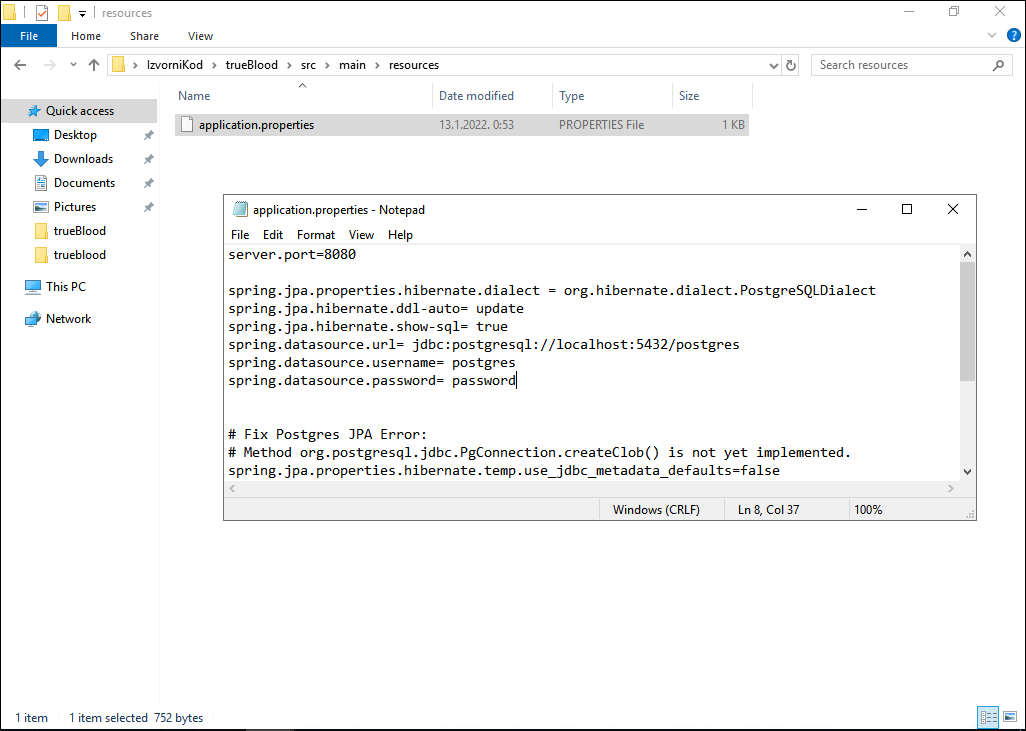
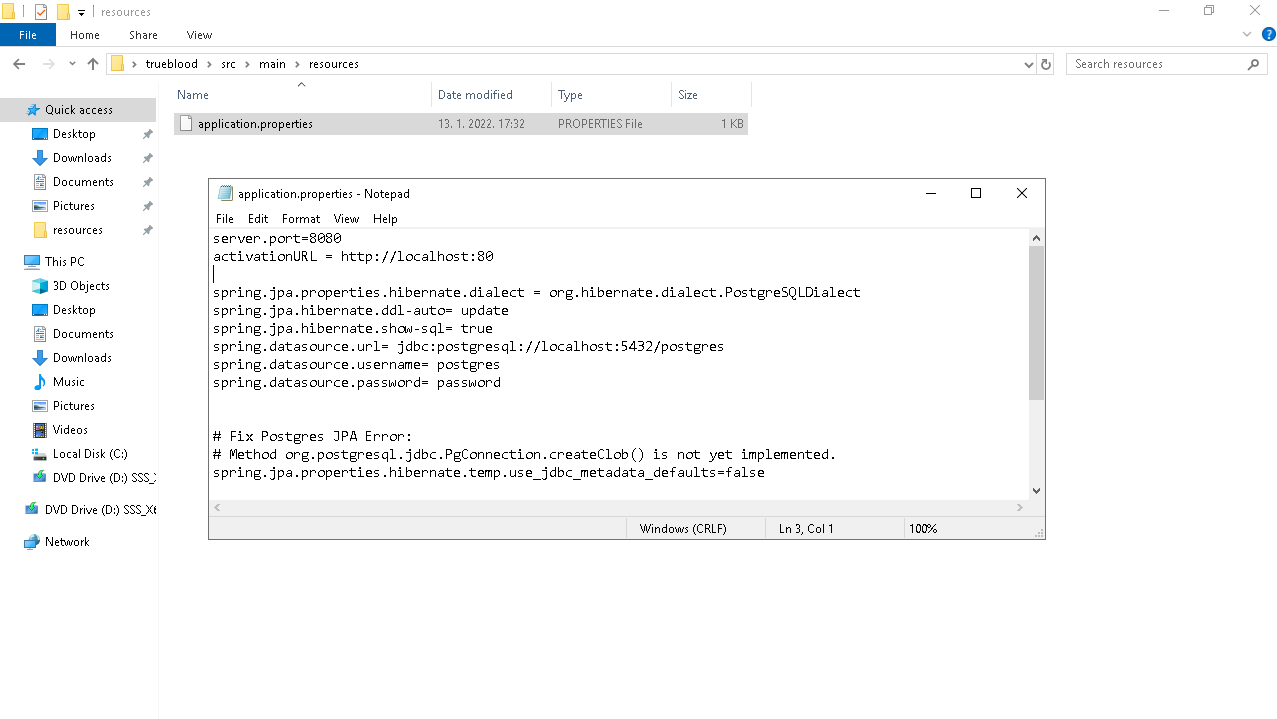
Dovršene upute za puštanje u pogon

diff --git a/Dokumentacija/Implementacija.tex b/Dokumentacija/Implementacija.tex
@@ -171,13 +171,13 @@ računalu nalaze web poslužitelj i poslužitelj baze podataka (PostgreSQL).
 		
 		\section{Upute za puštanje u pogon}
 		
-		Ove upute vrijede te su rađene za Windows Server 2019 desktop experience operativni sustav. Slična (ili gotovo ista) procedura je i za ostale windows, pa čak i linux operativne sustave. Većina razlika je u samoj instalaciji potrebnih programskih paketa i runtime-a te postavljanje putanje, nakon čega je njihovo korištenje gotovo identično.
+		Ove upute vrijede te su rađene za Windows Server 2019 desktop experience operativni sustav. Slična (ili gotovo ista) procedura je i za ostale windows, pa čak i linux operativne sustave. Većina razlika je u samoj instalaciji potrebnih programskih paketa i runtime-a te postavljanje putanje, nakon čega je konfiguriranje aplikacije i njezino korištenje gotovo identično.
 		
 			\textbf{Instalacija poslužitelja baze podataka}\\
 			Potrebno je preuzeti \href{https://www.enterprisedb.com/downloads/postgres-postgresql-downloads}{PostgreSQL bazu podataka za Windows x86-64}. Preporuča se verzija 13.x. Prilikom instalacije preporuča se ostaviti sve (po defaultu) označene komponente za instalaciju, jer će kasnije biti potrebno inicijalno popuniti bazu pomoću pgAdmin 4 alata. Odaberite šifru za korisnika postgres te port na kojem će baza podataka slušati zahtjeve. Prilikom završetka instalacije nije potrebno pokretati stack builder. Nakon instalacije (i prilikom svakog restarta servera), windows automatski pokreće servis baze podataka, te je ona dostupna na prethodno specificiranom portu.
 			
 			\textbf{Instalacija Node.js runtime-a}\\
-			Potrebno je preuzeti i instalirati \href{https://nodejs.org/en/download/}{Node.js runtime} koji će pokrenuti frontend dio aplikacije. Preporuča se trenutno dostupna LTS verzija (16.13.2 na dan pisanja). Prilikom instalacije potrebno je ostaviti sve (po defaultu) označene komponente za instalaciju, dok ponuđeni alat Chocolatey nije potrebno instalirati. Installer je automatski postavio PATH varijablu okruženja, te su "npm" i "node" naredbe postale globalno dostupne u cmd-u.
+			Potrebno je preuzeti i instalirati \href{https://nodejs.org/en/download/}{Node.js runtime} koji će pokrenuti frontend dio aplikacije. Preporuča se trenutno dostupna LTS verzija (16.13.2 na dan pisanja). Prilikom instalacije potrebno je ostaviti sve (po defaultu) označene komponente za instalaciju, dok ponuđeni alat Chocolatey nije potrebno instalirati. Installer je automatski postavio PATH varijablu okruženja, te su "\textit{npm}" i "\textit{node}" naredbe postale globalno dostupne u cmd-u.
 			
 			\textbf{Instalacija Jave}\\
 			Potrebno je preuzeti i instalirati \href{https://www.oracle.com/java/technologies/downloads/#jdk17-windows}{JDK paket} koji će pokretati backend dio aplikacije.
@@ -189,7 +189,7 @@ računalu nalaze web poslužitelj i poslužitelj baze podataka (PostgreSQL).
 			\label{fig:JDKdownload}
 			\end{figure}
 
-			Potrebna je trenutna 17.x.x verzija, no moguće je koristiti i neku od novijih verzija. Installer je automatski postavio PATH varijablu okruženja, te je "java" naredba postala globalno dostupna u cmd-u.
+			Potrebna je trenutna 17.x.x verzija, no moguće je koristiti i neku od novijih verzija. Installer je automatski postavio PATH varijablu okruženja, te je "\textit{java}" naredba postala globalno dostupna u cmd-u.
 			
 			\textbf{Instalacija Maven alata i postavljanje PATH varijable okruženja}\\
 			Potrebno je preuzeti \href{https://maven.apache.org/download.cgi}{Maven alat} koji služi za kreiranje .jar datoteke iz izvornog koda koja sadrži cijelu backend aplikaciju sa web serverom. Preporuča se 3.8.4 verzija ili novija.
@@ -201,7 +201,8 @@ računalu nalaze web poslužitelj i poslužitelj baze podataka (PostgreSQL).
 			\label{fig:mavenDownload}
 			\end{figure}
 			
-			Nakon preuzimanja potrebno je raspakirati folder u proizvoljnu mapu (u ovom primjeru na "\textit{C:/Program Files/apache-maven-3.8.4-bin}") te dodati "bin" folder u PATH varijablu okruženja. Pritiskom "\textit{Windows}" + "\textit{R}" tipki otvara se prozor u kojem treba napisati "\textit{SystemPropertiesAdvanced}" i pritisnuti enter.
+			Nakon preuzimanja potrebno je raspakirati folder u proizvoljnu mapu (u ovom primjeru na "\textit{C:/Program Files/apache-maven-3.8.4-bin}") te dodati "\textit{bin}" folder u PATH varijablu okruženja što se napravi na sljedeći način: 
+			Pritiskom "\textit{Windows}" + "\textit{R}" tipki otvara se prozor u kojem treba napisati "\textit{SystemPropertiesAdvanced}" i pritisnuti enter.
 			
 			\begin{figure}[H]
 			\centering
@@ -210,7 +211,7 @@ računalu nalaze web poslužitelj i poslužitelj baze podataka (PostgreSQL).
 			\label{fig:RunWindow}
 			\end{figure}
 			
-			Nakon toga otvara se drugi prozor gdje treba stisnuti gumb "Environment Variables...".
+			Nakon toga otvara se drugi prozor gdje treba stisnuti gumb "\textit{Environment Variables...}".
 			
 			\begin{figure}[H]
 			\centering
@@ -228,7 +229,7 @@ računalu nalaze web poslužitelj i poslužitelj baze podataka (PostgreSQL).
 			\label{fig:EnvironmentVariables}
 			\end{figure}
 			
-			Nakon toga, u novootvorenom prozoru, pritiskom na tipku "\textit{New}" potrebno je napisati putanju do bin foldera prethodno raspakiranog maven alata. U ovom slučaju to je "\textit{C:/Program Files/apache-maven-3.8.4-bin/apache-maven-3.8.4/bin}"
+			Nakon toga, u novootvorenom prozoru, pritiskom na tipku "\textit{New}" potrebno je napisati putanju do "\textit{bin}" foldera prethodno raspakiranog maven alata. U ovom slučaju to je "\textit{C:/Program Files/apache-maven-3.8.4-bin/apache-maven-3.8.4/bin}"
 			
 			\begin{figure}[H]
 			\centering
@@ -238,13 +239,7 @@ računalu nalaze web poslužitelj i poslužitelj baze podataka (PostgreSQL).
 			\end{figure}
 			
 			\textbf{Podešavanje i pokretanje backend dio aplikacije te inicijalno punjenje baze}\\
-			Kako bi aplikacija ispravno radila, potrebno je postaviti parametre za povezivanje s bazom podataka. U datoteci "\textit{application.properties}" (koja se nalazi na putanji "\textit{IzvorniKod/trueblood/src/main/resources}") nalaze se 3 ključne linije za povezivanje s bazom:
-			"\textit{spring.datasource.url= jdbc:postgresql://localhost:5432/postgres}"
-			"\textit{spring.datasource.username= postgres}"
-			"\textit{spring.datasource.password= password}"
-			Na prvoj liniji je potrebno specificirati odabrani port prilikom instalacije ("...//localhost:<port_number>/..."), te ime baze ("...5432/<ime_baze>"), ukoliko se ne koristi default baza (PostgreSQL ima svoju default bazu "postgres" koja je kreirana prilikom instalacije)
-			Na drugoj liniji specificira se ime korisnika kojeg aplikacija koristi za pristup bazi, te na trećoj liniji lozinka tog korisnika. Ukoliko se koristi default "postgres" korisnik za koji je definirana lozinka prilikom instalacije, ovdje se upiše ta ista lozinka.
-			Na samom vrhu nalazi se konfiguarijcka linija "\textit{server.port=8080}" kojom se može promijeniti port backend servera (default je 8080).
+			Kako bi aplikacija ispravno radila, potrebno je postaviti parametre za povezivanje s bazom podataka te ispravnu IP adresu i port za aktivacijski link u datoteci "\textit{application.properties}" (koja se nalazi na putanji "\textit{IzvorniKod/trueblood/src/main/resources}").
 			
 			\begin{figure}[H]
 			\centering
@@ -252,6 +247,23 @@ računalu nalaze web poslužitelj i poslužitelj baze podataka (PostgreSQL).
 			\caption{application.properties datoteka}
 			\label{fig:ApplicationProperties}
 			\end{figure}
+			
+			Na samom vrhu nalazi se konfiguarijcka linija "\textit{server.port=8080}" kojom se može promijeniti port backend servera (default je 8080).
+			Ispod toga, nalazi se linija "\textit{activationURL = http://localhost:80}". Ovdje je potrebno specificirati javnu IP adresu servera (ili DNS name tj. link ukoliko se koristi), te port frontend dijela aplikacije (ukoliko nije default 80). Jedan od načina kako se to može napraviti jest tako da se na serveru otvori stranica "\textit{https://www.whatismyip.com/} te se kopira ispisana IP adresa na mjesto ("activationURL = http://<ip_adresa>:80")
+			
+			\begin{figure}[H]
+			\centering
+			\includegraphics[width=\textwidth, scale=0.5]{slike/WhatIsMyIp}
+			\caption{Kopiranje javne IPv4 adrese servera}
+			\label{fig:WhatIsMyIp}
+			\end{figure}
+
+			Nadalje, ispod se nalaze 3 ključne linije za povezivanje s bazom:
+			"\textit{spring.datasource.url= jdbc:postgresql://localhost:5432/postgres}"
+			"\textit{spring.datasource.username= postgres}"
+			"\textit{spring.datasource.password= password}"
+			Na prvoj liniji je potrebno specificirati odabrani port prilikom instalacije ("...//localhost:<port_number>/..."), te ime baze ("...5432/<ime_baze>") ukoliko se ne koristi default baza (PostgreSQL ima svoju default bazu "postgres" koja je kreirana prilikom instalacije)
+			Na drugoj liniji specificira se ime korisnika kojeg aplikacija koristi za pristup bazi, te na trećoj liniji lozinka tog korisnika. Ukoliko se koristi default "postgres" korisnik za koji je definirana lozinka prilikom instalacije, ovdje se upiše ta ista lozinka.
 			
 			Nakon modificiranja i spremanja konfiguracijske datoteke, potrebno je otvoriti cmd, pozicionirati se u trueBlood folder (putanja "\textit{IzvorniKod/trueBlood}") te izvršiti komandu "\textit{mvn clean install -DskipTests}" kojom će maven alat preuzeti potrebne "dependency-e" te izraditi .jar datoteku spremnu za pokretanje.
 			
@@ -270,9 +282,9 @@ računalu nalaze web poslužitelj i poslužitelj baze podataka (PostgreSQL).
 				\end{minipage}
 			\end{figure}
 
-			Izrađena .jar datoteka nalazi se na putanji "\textit{IzvorniKod/trueBlood/target}" pod imenom "\textit{trueBlood-0.0.1-SNAPSHOT}", te se sa cmd-om potrebno pozicionirati u navedeni folder i izvršiti komandu "\textit{java -jar trueBlood-0.0.1-SNAPSHOT.jar}" čime se pokreće backend dio aplikacije. Potrebno je ostaviti otvoren cmd prozor kako bi aplikacija radila.\\
+			Izrađena .jar datoteka (koja u sebi sadrži sve što je potrebno za njezino pokretanje, uključujući i tomcat web server) nalazi se na putanji "\textit{IzvorniKod/trueBlood/target}" pod imenom "\textit{trueBlood-0.0.1-SNAPSHOT}", te se sa cmd-om potrebno pozicionirati u navedeni folder i izvršiti komandu "\textit{java -jar trueBlood-0.0.1-SNAPSHOT.jar}" čime se pokreće backend dio aplikacije. Potrebno je ostaviti otvoren cmd prozor kako bi aplikacija radila.\\
 			
-			Aplikacija sama stvara tablice i strukturu podataka u schemu "public" unutar baze specificirane u application.properties. No za ispravan rad potrebno je još dodavanje statičkih redova na način da se otvori prije instalirana aplikacija "PgAdmin", (na upit za lozinku upiše se odabrana lozinka prilikom instalacije) desnim klikom na korištenu bazu odabere se "\textit{Query Tool}", u tekstni prozor se kopira sadržaj datoteke "\textit{puniteljBaze.sql}" (koja se nalazi na putanji "\textit{IzvorniKod/trueblood/puniteljBaze.sql}") bilo samim kopiranjem teksta ili drag and drop metodom, te se pritisne tipka "\textit{Execute}". Ovim početnim punjenjem baze podataka, definira se početni admin korisnički račun (username: "admin", password: "admin") pomoću kojeg se dalje mogu kreirati druge vrste korisničkih računa.
+			Aplikacija sama stvara tablice i strukturu podataka u schemu "public" unutar baze specificirane u application.properties. No za ispravan rad potrebno je još dodavanje statičkih redova na način da se otvori prije instalirana aplikacija "PgAdmin", (na upit za lozinku upiše se odabrana lozinka prilikom instalacije) desnim klikom na korištenu bazu odabere se "\textit{Query Tool}", u tekstni prozor se kopira sadržaj datoteke "\textit{puniteljBaze.sql}" (koja se nalazi na putanji "\textit{IzvorniKod/trueblood/puniteljBaze.sql}") bilo samim kopiranjem teksta ili drag and drop metodom, te se pritisne tipka "\textit{Execute}". Ovim početnim punjenjem baze podataka, definira se početni admin korisnički račun (username: "\textit{admin}", password: "\textit{admin}") pomoću kojeg je moguće daljnje upravljanje aplikacijom.
 			
 			\begin{figure}[H]
 			\centering
@@ -282,32 +294,21 @@ računalu nalaze web poslužitelj i poslužitelj baze podataka (PostgreSQL).
 			\end{figure}
 			
 			\textbf{Podešavanje i pokretanje frontend dijela aplikacije}\\
-			Nakon uspješno pokrenutog backend dijela aplikacije, potrebno je još posložiti i pokrenuti i frontend dio aplikacije. Prvo je potrebno saznati javnu IP adresu servera. jedan od načina kako se to može napraviti jest tako da se na serveru otvori stranica "\textit{https://www.whatismyip.com/} te se kopira ispisana IP adresa. Nakon toga, tu IP adresu i port backend dijela aplijacije definiranog prije u application.properties potrebno je upisati u datoteku "\textit{Constants.js}" (koja se nalazi na putanji "\textit{IzvorniKod/trueBlood/frontend/src/components/Constants.js}") na liniji "\textit{export const SPRING_URL = 'http://localhost:8080';}" ("...= <IP_adresa>:<port_number>';").
+			Nakon uspješno pokrenutog backend dijela aplikacije, potrebno je još posložiti i pokrenuti i frontend dio aplikacije. Potrebno je javnu IP adresu servera (dobivenu prije danim uputama) i port backend dijela aplijacije (definiranog prije u application.properties) upisati u datoteku "\textit{Constants.js}" (koja se nalazi na putanji "\textit{IzvorniKod/trueBlood/frontend/src/components}") na liniji "\textit{export const SPRING_URL = 'http://localhost:8080';}" ("...= <IP_adresa>:<port_number>';").
 
-			\begin{figure}[!tbp]
-				\centering
-				\begin{minipage}[b]{0.4\textwidth}
-					\includegraphics[width=\textwidth]{slike/WhatIsMyIp}
-					\caption{Kopiranje javne IPv4 adrese servera}
-					\label{fig:WhatIsMyIp}
-				\end{minipage}
-				\hfill
-				\begin{minipage}[b]{0.4\textwidth}
-					\includegraphics[width=\textwidth]{slike/ConstantsJs}
-					\caption{Constants.js datoteka}
-					\label{fig:ConstantsJs}
-				\end{minipage}
+			\begin{figure}[H]
+			\centering
+			\includegraphics[width=\textwidth, scale=0.5]{slike/ConstantsJs}
+			\caption{Constants.js datoteka}
+			\label{fig:ConstantsJs}
 			\end{figure}
 			
-			Nakon modificiranja i spremanja datoteke Constants.js, potrebno je otvoriti novi cmd prozor, pozicionirati se u frontend folder (putanja "\textit{IzvorniKod/trueBlood/frontend}") te izvršiti komandu "\textit{npm install}" kojom se instaliraju potrebni node moduli, zatim komandu "\textit{npm run build}" kojom se kreira "build" folder u kojem se nalaze izvršne datoteke spremne za korištenje u produkciji. Te datoteke mogu se upogoniti u bilo kojem proizvoljnom web serveru (poput microsoftovog IIS-a), no radi jednostavnosti, nakon izvršenja prethodne naredbe, naredbom "\textit{npm install -g serve}" dodatno se instalira "serve" modul, koji koristi za posluživanje prije kreiranih datoteka. Napokon, naredbom "\textit{serve -s build -l 80}" pokrećemo Node.js web server na portu 80, te je ovime kompletna aplikacija spremna za upotrebu.
-			Napomena: 
+			Nakon modificiranja i spremanja datoteke Constants.js, potrebno je otvoriti novi cmd prozor, pozicionirati se u frontend folder (putanja "\textit{IzvorniKod/trueBlood/frontend}") te izvršiti komandu "\textit{npm install}" kojom se instaliraju potrebni node moduli, zatim komandu "\textit{npm run build}" kojom se kreira "build" folder u kojem se nalaze izvršne datoteke spremne za korištenje u produkciji. Te datoteke mogu se upogoniti u bilo kojem proizvoljnom web serveru (poput microsoftovog IIS-a), no radi jednostavnosti, nakon izvršenja prethodne naredbe, naredbom "\textit{npm install -g serve}" dodatno se instalira "\textit{serve}" modul, koji koristi za posluživanje prije kreiranih datoteka. Napokon, naredbom "\textit{serve -s build -l 80}" pokreće se Node.js web server na portu 80 (ukoliko je ranije odabran neki drugi port frontend aplikacije, sa opcijom "\textit{...-l <port_number>}" se aplikacija pokreće na odabranom portu), te je ovime kompletna aplikacija spremna za upotrebu.
 			
-			\textit{U ovom poglavlju potrebno je dati upute za puštanje u pogon (engl. deployment) ostvarene aplikacije. Na primjer, za web aplikacije, opisati postupak kojim se od izvornog kôda dolazi do potpuno postavljene baze podataka i poslužitelja koji odgovara na upite korisnika. Za mobilnu aplikaciju, postupak kojim se aplikacija izgradi, te postavi na neku od trgovina. Za stolnu (engl. desktop) aplikaciju, postupak kojim se aplikacija instalira na računalo. Ukoliko mobilne i stolne aplikacije komuniciraju s poslužiteljem i/ili bazom podataka, opisati i postupak njihovog postavljanja. Pri izradi uputa preporučuje se \textbf{naglasiti korake instalacije uporabom natuknica} te koristiti što je više moguće \textbf{slike ekrana} (engl. screenshots) kako bi upute bile jasne i jednostavne za slijediti.}
-		
-			 \textit{U ovom poglavlju potrebno je dati upute za puštanje u pogon (engl. deployment) ostvarene aplikacije. Na primjer, za web aplikacije, opisati postupak kojim se od izvornog kôda dolazi do potpuno postavljene baze podataka i poslužitelja koji odgovara na upite korisnika. Za mobilnu aplikaciju, postupak kojim se aplikacija izgradi, te postavi na neku od trgovina. Za stolnu (engl. desktop) aplikaciju, postupak kojim se aplikacija instalira na računalo. Ukoliko mobilne i stolne aplikacije komuniciraju s poslužiteljem i/ili bazom podataka, opisati i postupak njihovog postavljanja. Pri izradi uputa preporučuje se \textbf{naglasiti korake instalacije uporabom natuknica} te koristiti što je više moguće \textbf{slike ekrana} (engl. screenshots) kako bi upute bile jasne i jednostavne za slijediti.}
+			\textbf{Napomene}\\
 			
-			
-			 \textit{Dovršenu aplikaciju potrebno je pokrenuti na javno dostupnom poslužitelju. Studentima se preporuča korištenje neke od sljedećih besplatnih usluga: \href{https://aws.amazon.com/}{Amazon AWS}, \href{https://azure.microsoft.com/en-us/}{Microsoft Azure} ili \href{https://www.heroku.com/}{Heroku}. Mobilne aplikacije trebaju biti objavljene na F-Droid, Google Play ili Amazon App trgovini.}
+			Ukoliko je uključen, potrebno je odabrane portove frontend i backend dijela aplikacije propustiti kroz firewall.\\
+			Ukoliko nakon pokretanja backend ili frontend dijela aplikacije neki od njih izgledno ne radi, moguće da se slučajnim lijevim klika mišom na cmd prozor (koji ga pokreće taj dio aplikacije zamrznuo. Potrebno je na taj isti prozor stisnuti desni klik miša, što će nastaviti rad zamrznutog dijela aplikacije. Preporuča se minimiziranje cmd prozora kako ne bi došlo do tog problema.\\
 			
 			
 			\eject 
